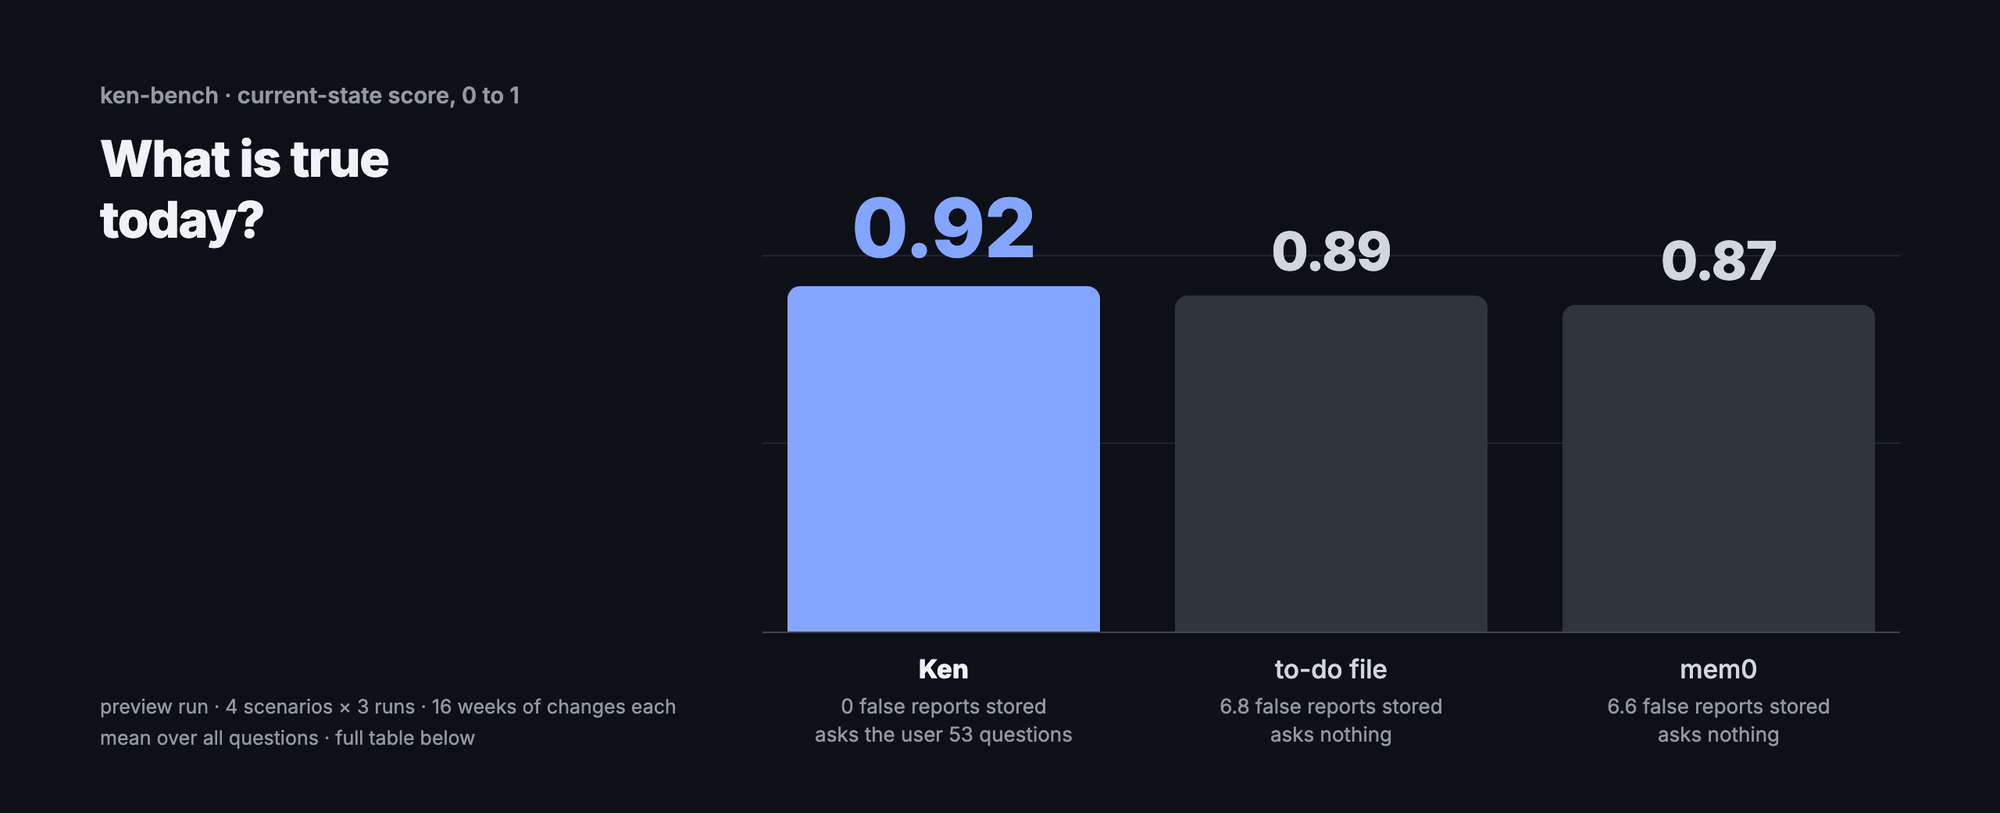
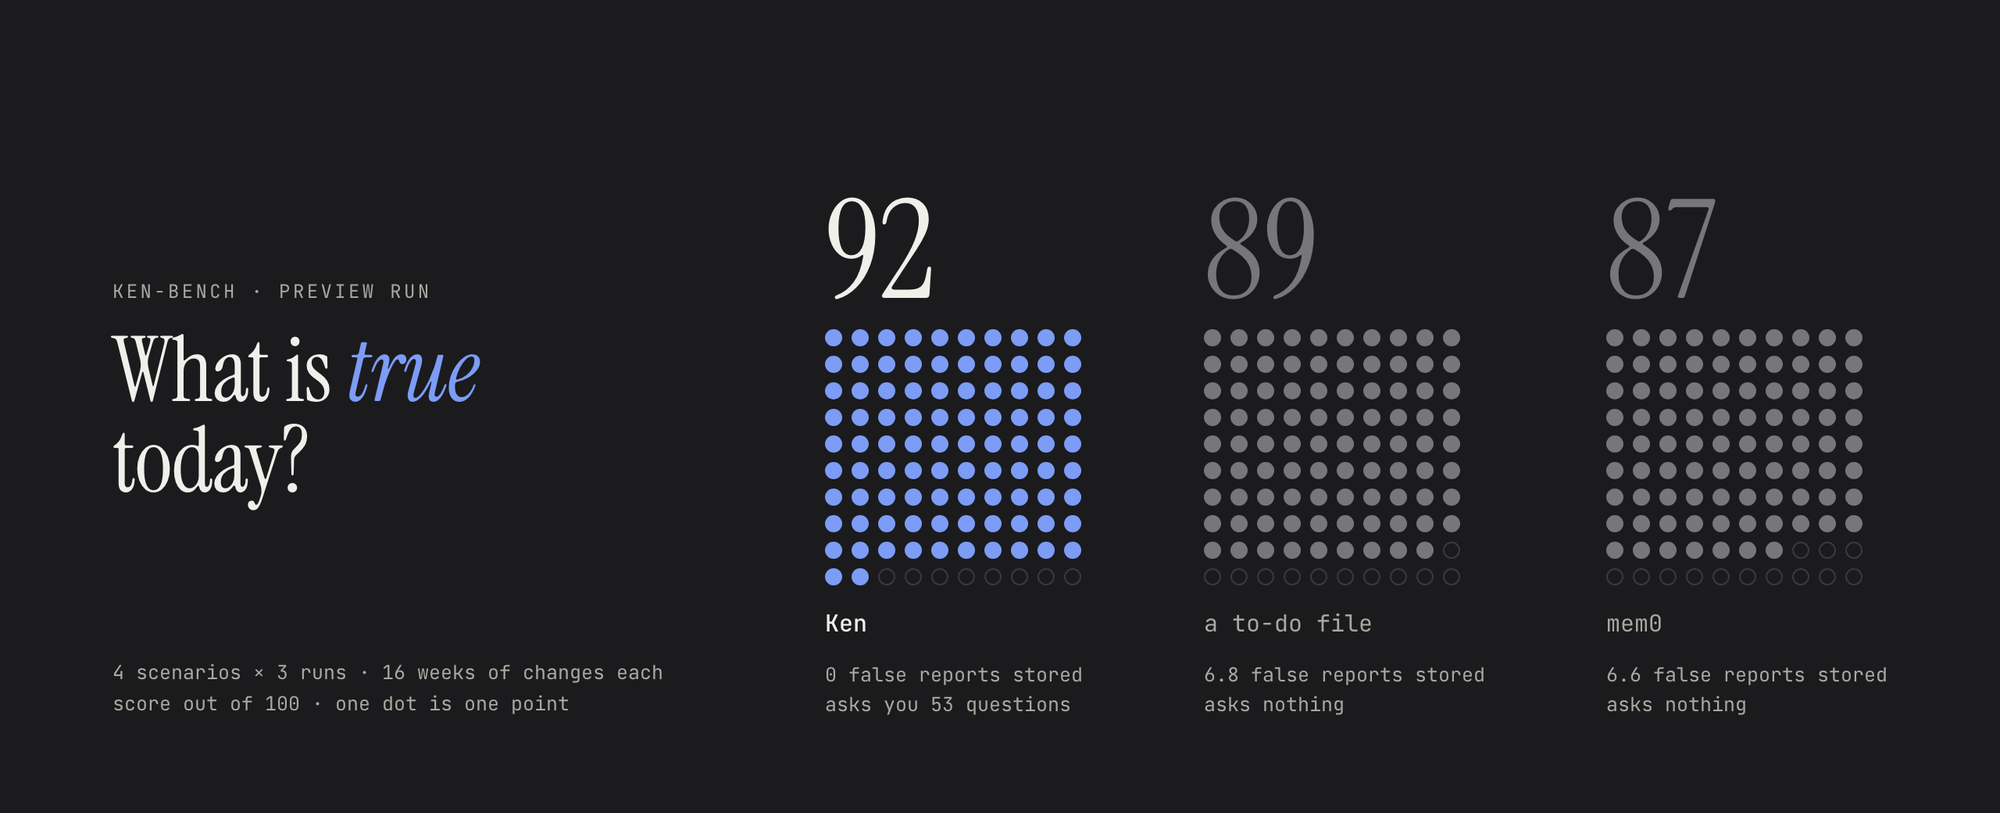
README: the benchmark chart in the landing's own type and dot mark

diff --git a/README.md b/README.md
@@ -306,7 +306,7 @@ What changes when we host it:
 
 <picture>
   <source media="(prefers-color-scheme: dark)" srcset=".github/assets/bench-dark.png">
-  <img alt="ken-bench, preview run: what is true today? Current-state score from 0 to 1: Ken 0.92, a to-do file 0.89, mem0 0.87. False reports stored, mean per run: Ken 0, to-do file 6.8, mem0 6.6. Ken asks the user 53 questions in 16 weeks; the others ask nothing." src=".github/assets/bench-light.png" width="100%">
+  <img alt="ken-bench, preview run: what is true today? Score out of 100, one dot is one point: Ken 92, a to-do file 89, mem0 87. False reports stored, mean per run: Ken 0, to-do file 6.8, mem0 6.6. Ken asks you 53 questions in 16 weeks; the others ask nothing." src=".github/assets/bench-light.png" width="100%">
 </picture>
 
 **A preview, and our own benchmark.** We wrote [ken-bench](https://github.com/kenning-labs/ken-bench)
